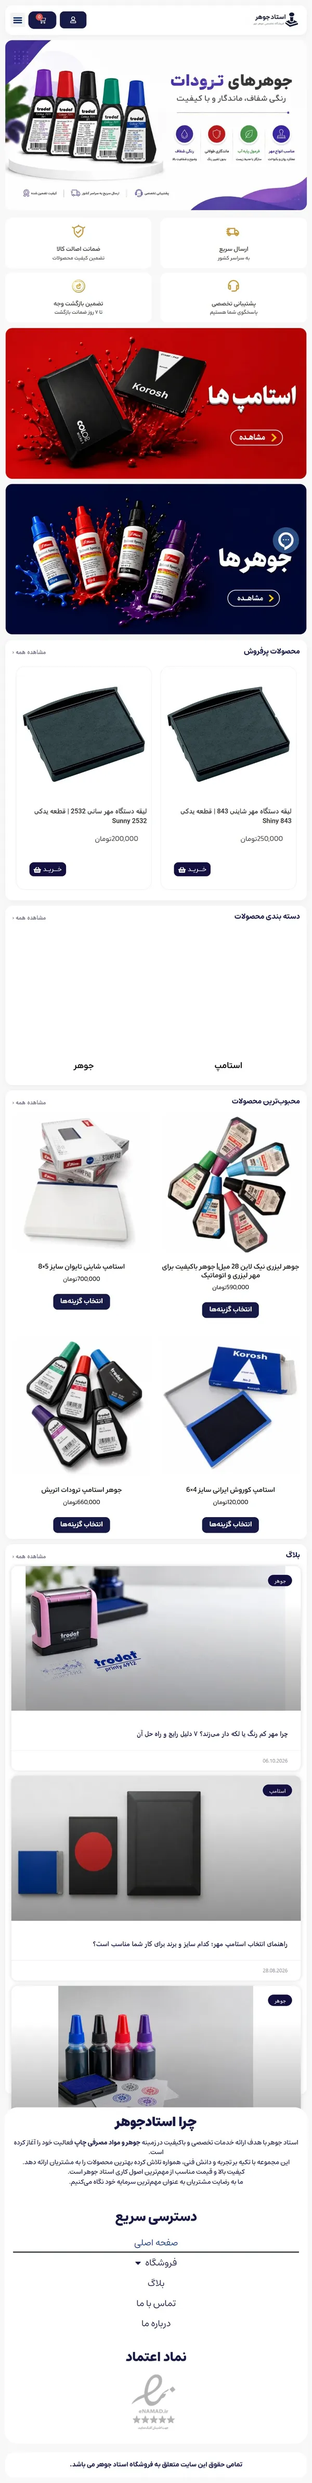
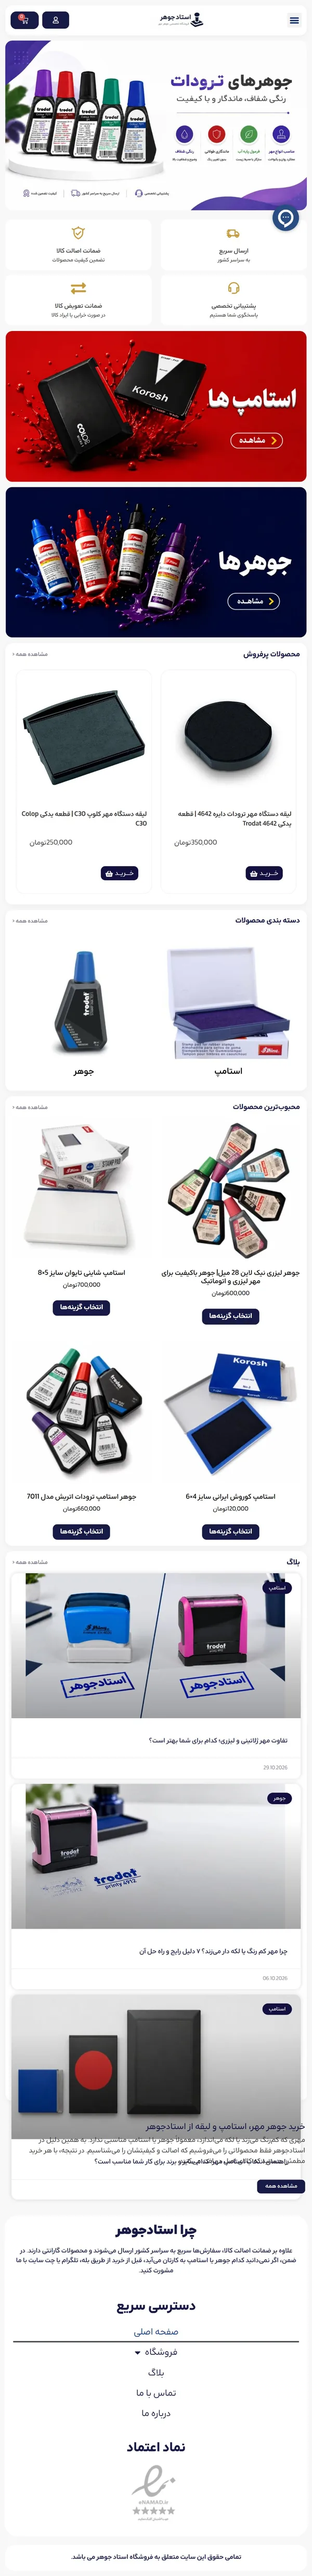
Update Ostadjohar desktop and mobile screenshots
Claude-Session: https://claude.ai/code/session_01HWAtA12DogNJmLycSidT4C

diff --git a/index.html b/index.html
@@ -349,12 +349,12 @@ dialog::backdrop{background:rgba(12,18,32,.72);backdrop-filter:blur(4px)}
     <figure class="showcase reveal">
       <div class="devices">
       <div class="laptop">
-        <div class="lid"><div class="scr"><img src="img/johar-desk.webp" alt="صفحهی اصلی فروشگاه استادجوهر در نمای دسکتاپ" width="1100" height="3285" fetchpriority="high"></div></div>
+        <div class="lid"><div class="scr"><img src="img/johar-desk.webp" alt="صفحهی اصلی فروشگاه استادجوهر در نمای دسکتاپ" width="1100" height="3621" fetchpriority="high"></div></div>
         <div class="base"></div>
       </div>
       <div class="device-phone" id="heroPhone"><img src="img/johar-mob.webp" alt="نسخهی موبایل فروشگاه استادجوهر"></div>
       </div>
-      <figcaption><span class="tag real">پروژهی واقعی و فعال</span><a href="https://ostadjohar.ir/" target="_blank" rel="noopener" style="text-decoration:none">فروشگاه استادجوهر</a> · طراحی، پیادهسازی و مدیریت: محدثه توکلی</figcaption>
+      <figcaption><span class="tag real">پروژهی واقعی و فعال</span><span><a href="https://ostadjohar.ir/" target="_blank" rel="noopener" style="text-decoration:none">فروشگاه استادجوهر</a> · طراحی، پیادهسازی و مدیریت: محدثه توکلی</span></figcaption>
     </figure>
   </section>
 
